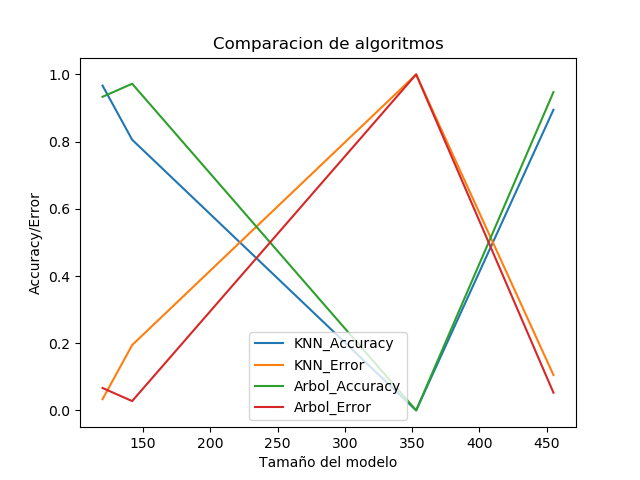
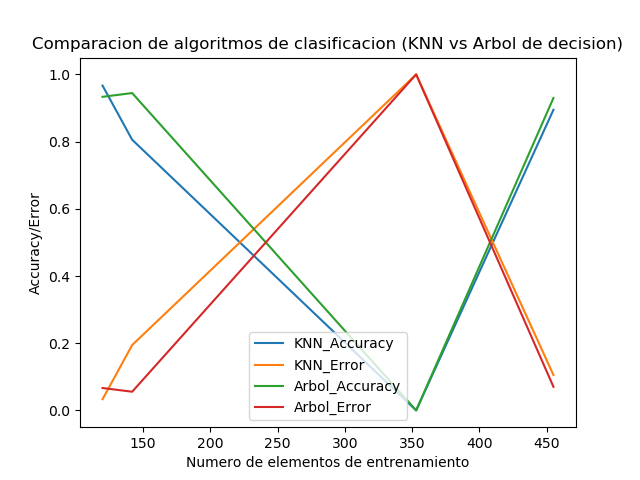
Mejora grafico ejercicio3

diff --git a/PRACTICAS/PRACTICA1/ejercicio3/ejercicio3.py b/PRACTICAS/PRACTICA1/ejercicio3/ejercicio3.py
@@ -131,7 +131,7 @@ plt.plot(knn_size, knn_accuracy, label='KNN_Accuracy')
 plt.plot(knn_size, knn_error, label='KNN_Error')
 plt.plot(arbol_size, arbol_accuracy, label='Arbol_Accuracy')
 plt.plot(arbol_size, arbol_error, label='Arbol_Error')
-plt.xlabel('Tamaño del modelo (train)')
+plt.xlabel('Numero de elementos de entrenamiento')
 plt.ylabel('Accuracy/Error')
 plt.title('Comparacion de algoritmos de clasificacion (KNN vs Arbol de decision)') 
 plt.legend()
